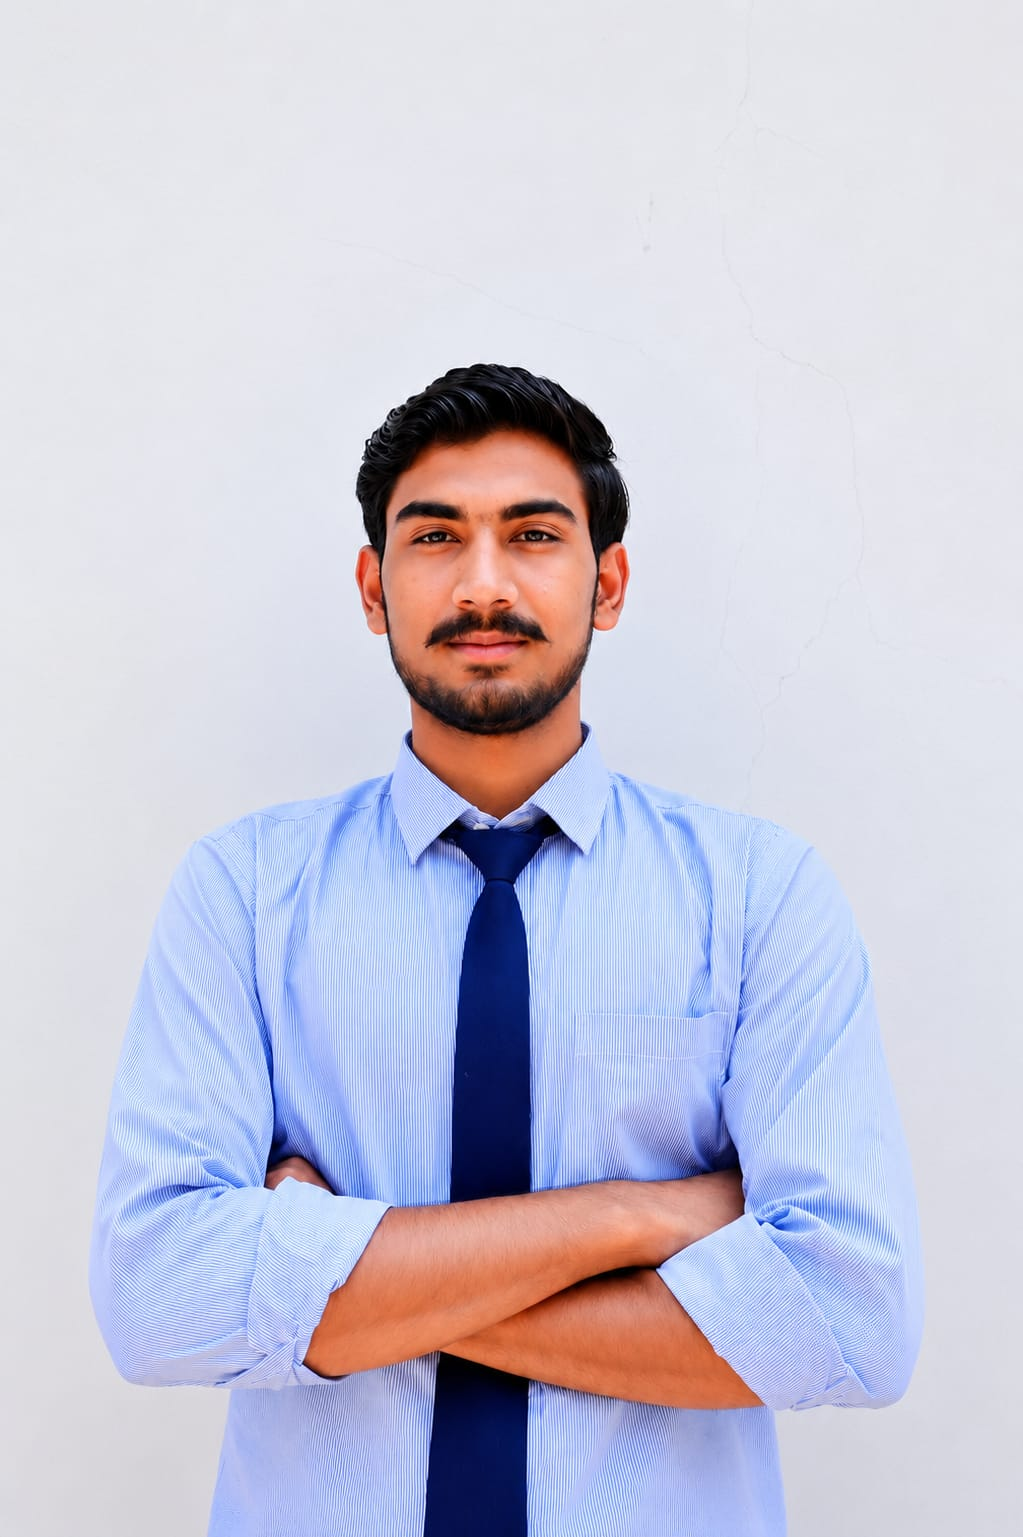
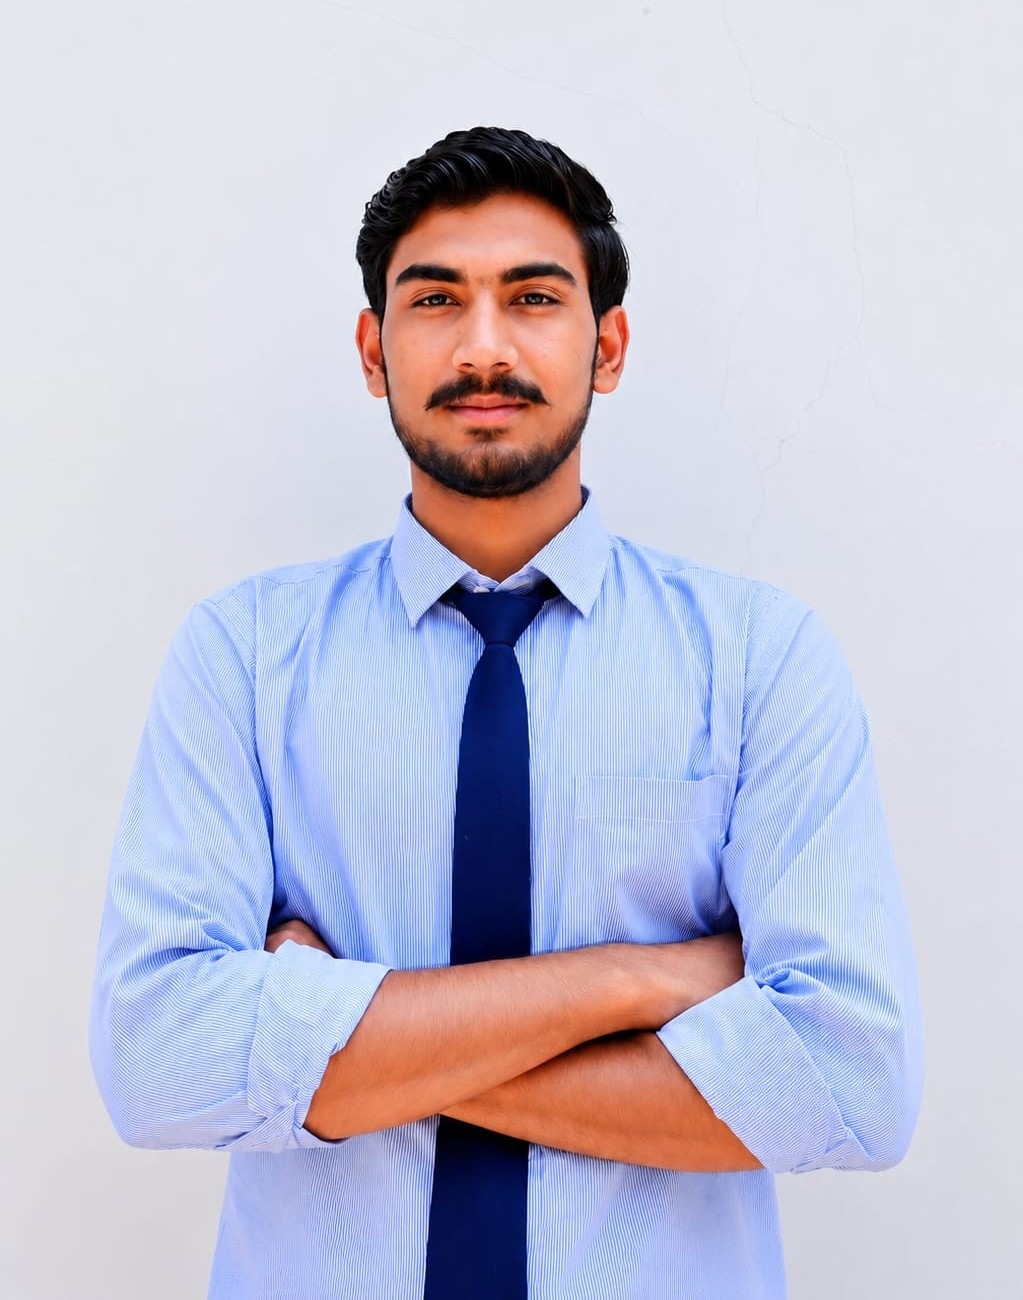
fixed captain image

Changed region(s): [[0.0909, 0.0923, 0.9091, 1.0], [0.8485, 0.6154, 0.8788, 0.6462]]

diff --git a/src/pages/Council.jsx b/src/pages/Council.jsx
@@ -23,7 +23,7 @@ const EXECUTIVE_LEADS = [
     id: 'advisory',
     role: 'Advisory',
     name: 'Anusha Shandilya',
-    // image: '/captains/chair.jpg',
+    image: '/captains/advisary.jpeg',
     badge: 'HEAD OF COUNCIL',
     badgeClass: 'page-card__pill--blue',
     initRotate: -14,
@@ -150,8 +150,8 @@ const CLUBS_DATA = [
       name: 'Kartik Khurana',
       role: 'Captain',
       image: '/captains/ieee.jpg',
-      email: 'ieee.lead@piet.ac.in',
-      instagram: 'https://instagram.com/ieee_piet',
+      email: 'ieee@poornima.org',
+      instagram: 'https://www.instagram.com/ieee.piet',
     },
   },
   {
@@ -463,7 +463,7 @@ const CLUBS_DATA = [
     name: 'IETE Club',
     category: 'TECHNICAL',
     badgeClass: 'page-card__pill--blue',
-    logo: '/clubs/ieee.png',
+    logo: '/clubs/iete.jpeg',
     brief: 'A community for students passionate about electronics, telecommunication and technology. Learn through hands-on experiences and build new skills.',
     fullDesc: 'IETE Student Forum provides a space for electronics, telecom, and IoT enthusiasts to explore hardware design, PCB etching, and embedded systems.',
     captain: {
